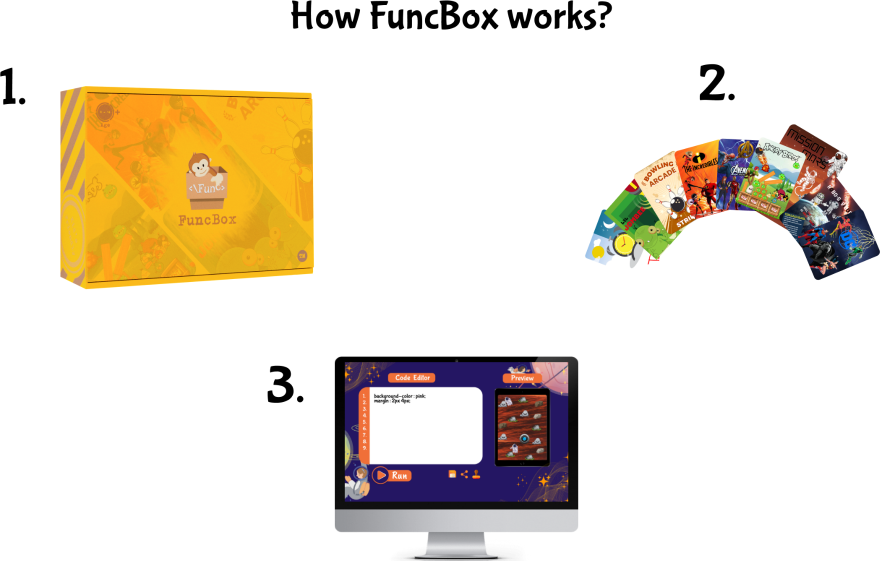
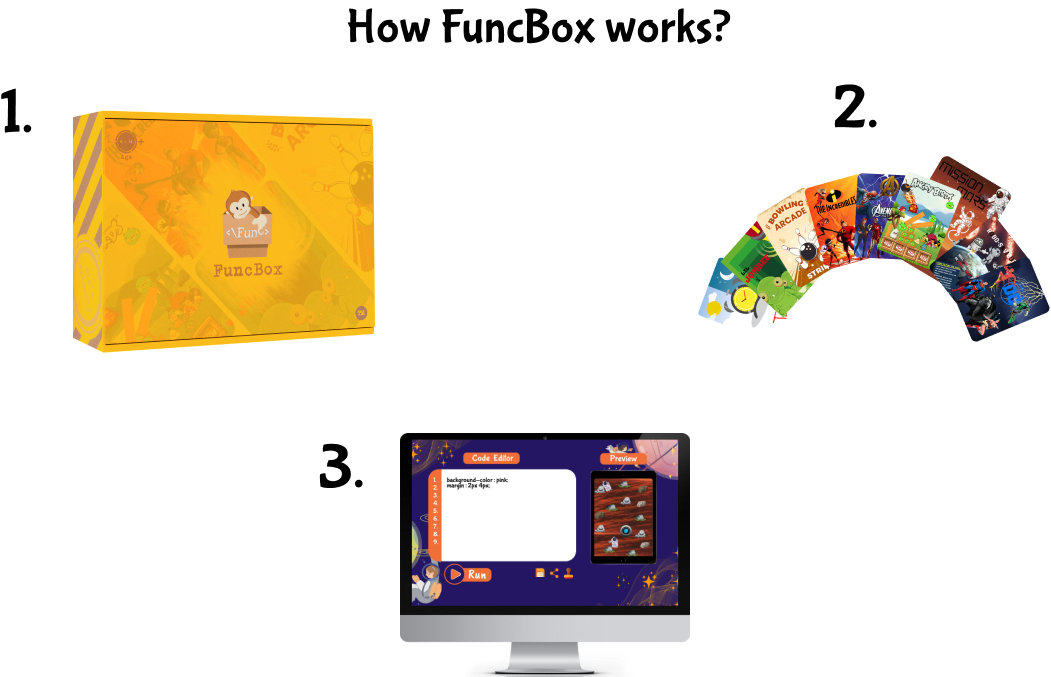
ui requirement mets

diff --git a/src/components/SalesPage/SalesPage.js b/src/components/SalesPage/SalesPage.js
@@ -27,10 +27,10 @@ export default function SalesPage() {
                 <img src={box} alt="box" className="background__img" />
                 <div className="content">
                 <p className="title">FuncBox is a box full of surprises which will teach you education concepts and coding with a revolutionary twist.</p>
-                <p>Perfect for age-group 6-12 years.</p>
-                <p>Perfect for age-group 6-12 years.</p>
-                <p>Perfect for age-group 6-12 years.</p>
-                <p>Perfect for age-group 6-12 years.</p>
+                <p><i class="fas fa-chevron-right"></i> Perfect for age-group 6-12 years.</p>
+                <p><i class="fas fa-chevron-right"></i> Build your own fun game</p>
+                <p><i class="fas fa-chevron-right"></i> Learn to code and explore.</p>
+                <p><i class="fas fa-chevron-right"></i> Share your game with your friends.</p>
                 </div>
             </div>
             </div>
@@ -69,19 +69,25 @@ export default function SalesPage() {
                     <div className="details">
                     <ul>
                         <li>
-                        Feature
+                          • FuncBox Binder
                         </li>
                         <li>
-                        Feature
+                        • 3 mathematical apps
                         </li>
                         <li>
-                        Feature
+                        • 3 scientific apps
                         </li>
                         <li>
-                        Feature
+                        • 3 game apps
                         </li>
                         <li>
-                        Feature
+                        • Stickers
+                        </li>
+                        <li>
+                        • Kickstart guide
+                        </li>
+                        <li>
+                        • Interactive website
                         </li>
                     </ul>
                     </div>
@@ -105,21 +111,31 @@ export default function SalesPage() {
                     </div>
                     <div className="details">
                     <ul>
-                        <li>
-                        Feature
-                        </li>
-                        <li>
-                        Feature
-                        </li>
-                        <li>
-                        Feature
-                        </li>
-                        <li>
-                        Feature
-                        </li>
-                        <li>
-                        Feature
-                        </li>
+                      <li>
+                        • FuncBox Binder
+                      </li>
+                      <li>
+                      • 5 mathematical apps
+                      </li>
+                      <li>
+                      • 5 scientific apps
+                      </li>
+                      <li>
+                      • 5 game apps
+                      </li>
+
+                      <li>
+                      • Stickers
+                      </li>
+                      <li>
+                      • Mini fun deck
+                      </li>
+                      <li>
+                      • Kickstart guide
+                      </li>
+                      <li>
+                      • Interactive website
+                      </li>
                     </ul>
                     </div>
                 </div>
@@ -142,21 +158,38 @@ export default function SalesPage() {
                     </div>
                     <div className="details">
                     <ul>
+                      <ul>
                         <li>
-                        Feature
+                          • FuncBox Binder
                         </li>
                         <li>
-                        Feature
+                        • 8 mathematical apps
                         </li>
                         <li>
-                        Feature
+                        • 8 scientific apps
                         </li>
                         <li>
-                        Feature
+                        • 8 game apps
                         </li>
                         <li>
-                        Feature
+                        • 2 Surprise goodies
                         </li>
+                        <li>
+                        • Mystery toy
+                        </li>
+                        <li>
+                        • Stickers
+                        </li>
+                        <li>
+                        • Mini fun deck
+                        </li>
+                        <li>
+                        • Kickstart guide
+                        </li>
+                        <li>
+                        • Interactive website
+                        </li>
+                      </ul>
                     </ul>
                     </div>
                 </div>
@@ -172,9 +205,6 @@ export default function SalesPage() {
                 </div>
             </div>
             </div>
-            <div className="payment">
-            <a href="#">Proceed To Payment</a>
-            </div>
             <div className="for__school">
             <div className="heading">
                 <h1> For Schools </h1>
@@ -182,7 +212,7 @@ export default function SalesPage() {
             <div className="content">
                 <img src={house} alt="house" />
                 <div className="contentt">
-                <p>Lorem ipsum dolor sit amet, consectetur adipisicing elit. Quia, adipisci. Ratione ad unde suscipit illo, explicabo aperiam eum laudantium ea quidem nesciunt distinctio enim ut fuga temporibus? Voluptatum, reiciendis, veniam.</p>
+                <p>We at FuncBox aim to bring an exclusive element to make kids in the age group of 6-14 years learn concepts of Coding and Creative Thinking.</p>
                 <a href="#">Connect Today</a>
                 </div>
             </div>

diff --git a/src/components/SalesPage/SalesPage.css b/src/components/SalesPage/SalesPage.css
@@ -112,6 +112,7 @@
   border-radius: 12px;
   z-index: 2;
   margin: 0 6px;
+  min-height: 400px;
 }
 
 .salesPage__main .plan .details ul {
@@ -167,7 +168,7 @@
   opacity: 0.7;
   height: 12px;
   z-index: 1;
-  margin-top: -185px;
+  margin-top: -350px;
   border-radius: 0 0 12px 12px;
   margin-bottom: -5px;
   transition: 0.7s;
@@ -179,7 +180,7 @@
   text-align: center;
   padding: 32px;
   z-index: 3;
-  min-height: 200px;
+  min-height: 300px;
   border-radius: 0 0 12px 12px;
 }
 
@@ -264,6 +265,24 @@
     transform: translate(0%, -50%);
     width: 100%;
   }
+
+  .salesPage__main .for__school .content{
+    display: grid;
+    grid-template-columns: minmax(0,1fr);
+  }
+
+  .salesPage__main .for__school .content img{
+    width: 50%;
+    margin: auto;
+    border-radius: 8px;
+  }
+
+  .salesPage__main .for__school .contentt{
+    margin-left: 0;
+    width: 60%;
+    margin: auto;
+    margin-top: -3%;
+  }
 }
 
 @media (max-width : 1023px) {
@@ -306,6 +325,10 @@
   .salesPage__main .features .feature {
     margin-bottom: 16px;
   }
+
+  .salesPage__main .for__school .content{
+    margin: 32px auto;
+  }
 }
 
 @media (max-width : 500px) {
@@ -320,5 +343,22 @@
 
   .hero__section .left__section img{
     width: 75%;
+  }
+
+  .salesPage__main .for__school .content img{
+    width: 90%;
+    margin: auto;
+    border-radius: 8px;
+  }
+
+  .salesPage__main .for__school .contentt{
+    margin-left: 0;
+    width: 80%;
+    margin: auto;
+    margin-top: -3%;
+  }
+
+  .salesPage__main .for__school .content{
+    margin: 32px auto;
   }
 }

diff --git a/src/components/AboutPage/AboutPage.js b/src/components/AboutPage/AboutPage.js
@@ -27,6 +27,9 @@ export default function AboutPage() {
           <img src={roadmap} alt="roadmap" />
         </div>
         <div className="faqs">
+          <div className="faq__heading">
+            <h1>Frequently Asked Questions</h1>
+          </div>
           <div className="faq">
             <p>What age is Funcbox for?</p>
             <p> Funcbox is designed for kids 6-12 years in age.</p>

diff --git a/src/components/LandingPage/LandingPage.js b/src/components/LandingPage/LandingPage.js
@@ -9,7 +9,7 @@ import login from './assets/login.svg'
 import homepageimg from './assets/homepageimg.webp'
 import downArrow from './assets/downArrow.svg'
 import roadmap from './assets/roadmap.svg'
-import howWorks from './assets/howWorks.webp'
+import howWorks from './assets/howWorks.png'
 import bell from './assets/bell.png'
 import fb from './assets/fb.svg'
 import linked from './assets/linked.svg'

diff --git a/src/components/LandingPage/LandingPage.css b/src/components/LandingPage/LandingPage.css
@@ -74,7 +74,7 @@
 }
 
 .landingPage__main .individuals .left__container img {
-  width: 350px;
+  width: 400px;
 }
 
 .landingPage__main .schools .right__container img {
@@ -87,7 +87,7 @@
   padding: 32px;
   background: #eeeeee;
   margin-left: -32px;
-
+  min-height: 350px;
   width: 37%;
   margin-bottom: 32px;
   position: relative;

diff --git a/src/components/AboutPage/AboutPage.css b/src/components/AboutPage/AboutPage.css
@@ -48,7 +48,7 @@
 }
 
 .aboutPage__main .faqs {
-  
+
   margin: 64px;
   font-size: 28px;
   font-weight: 300;
@@ -59,7 +59,12 @@
   margin-bottom: 32px;
 }
 
-.faqs p {
+.aboutPage__main .faqs .faq__heading{
+  text-align: center;
+  margin-bottom:32px;
+}
+
+.aboutPage__main .faqs p {
   font-size: 24px;
   margin-bottom: 16px;
 }
